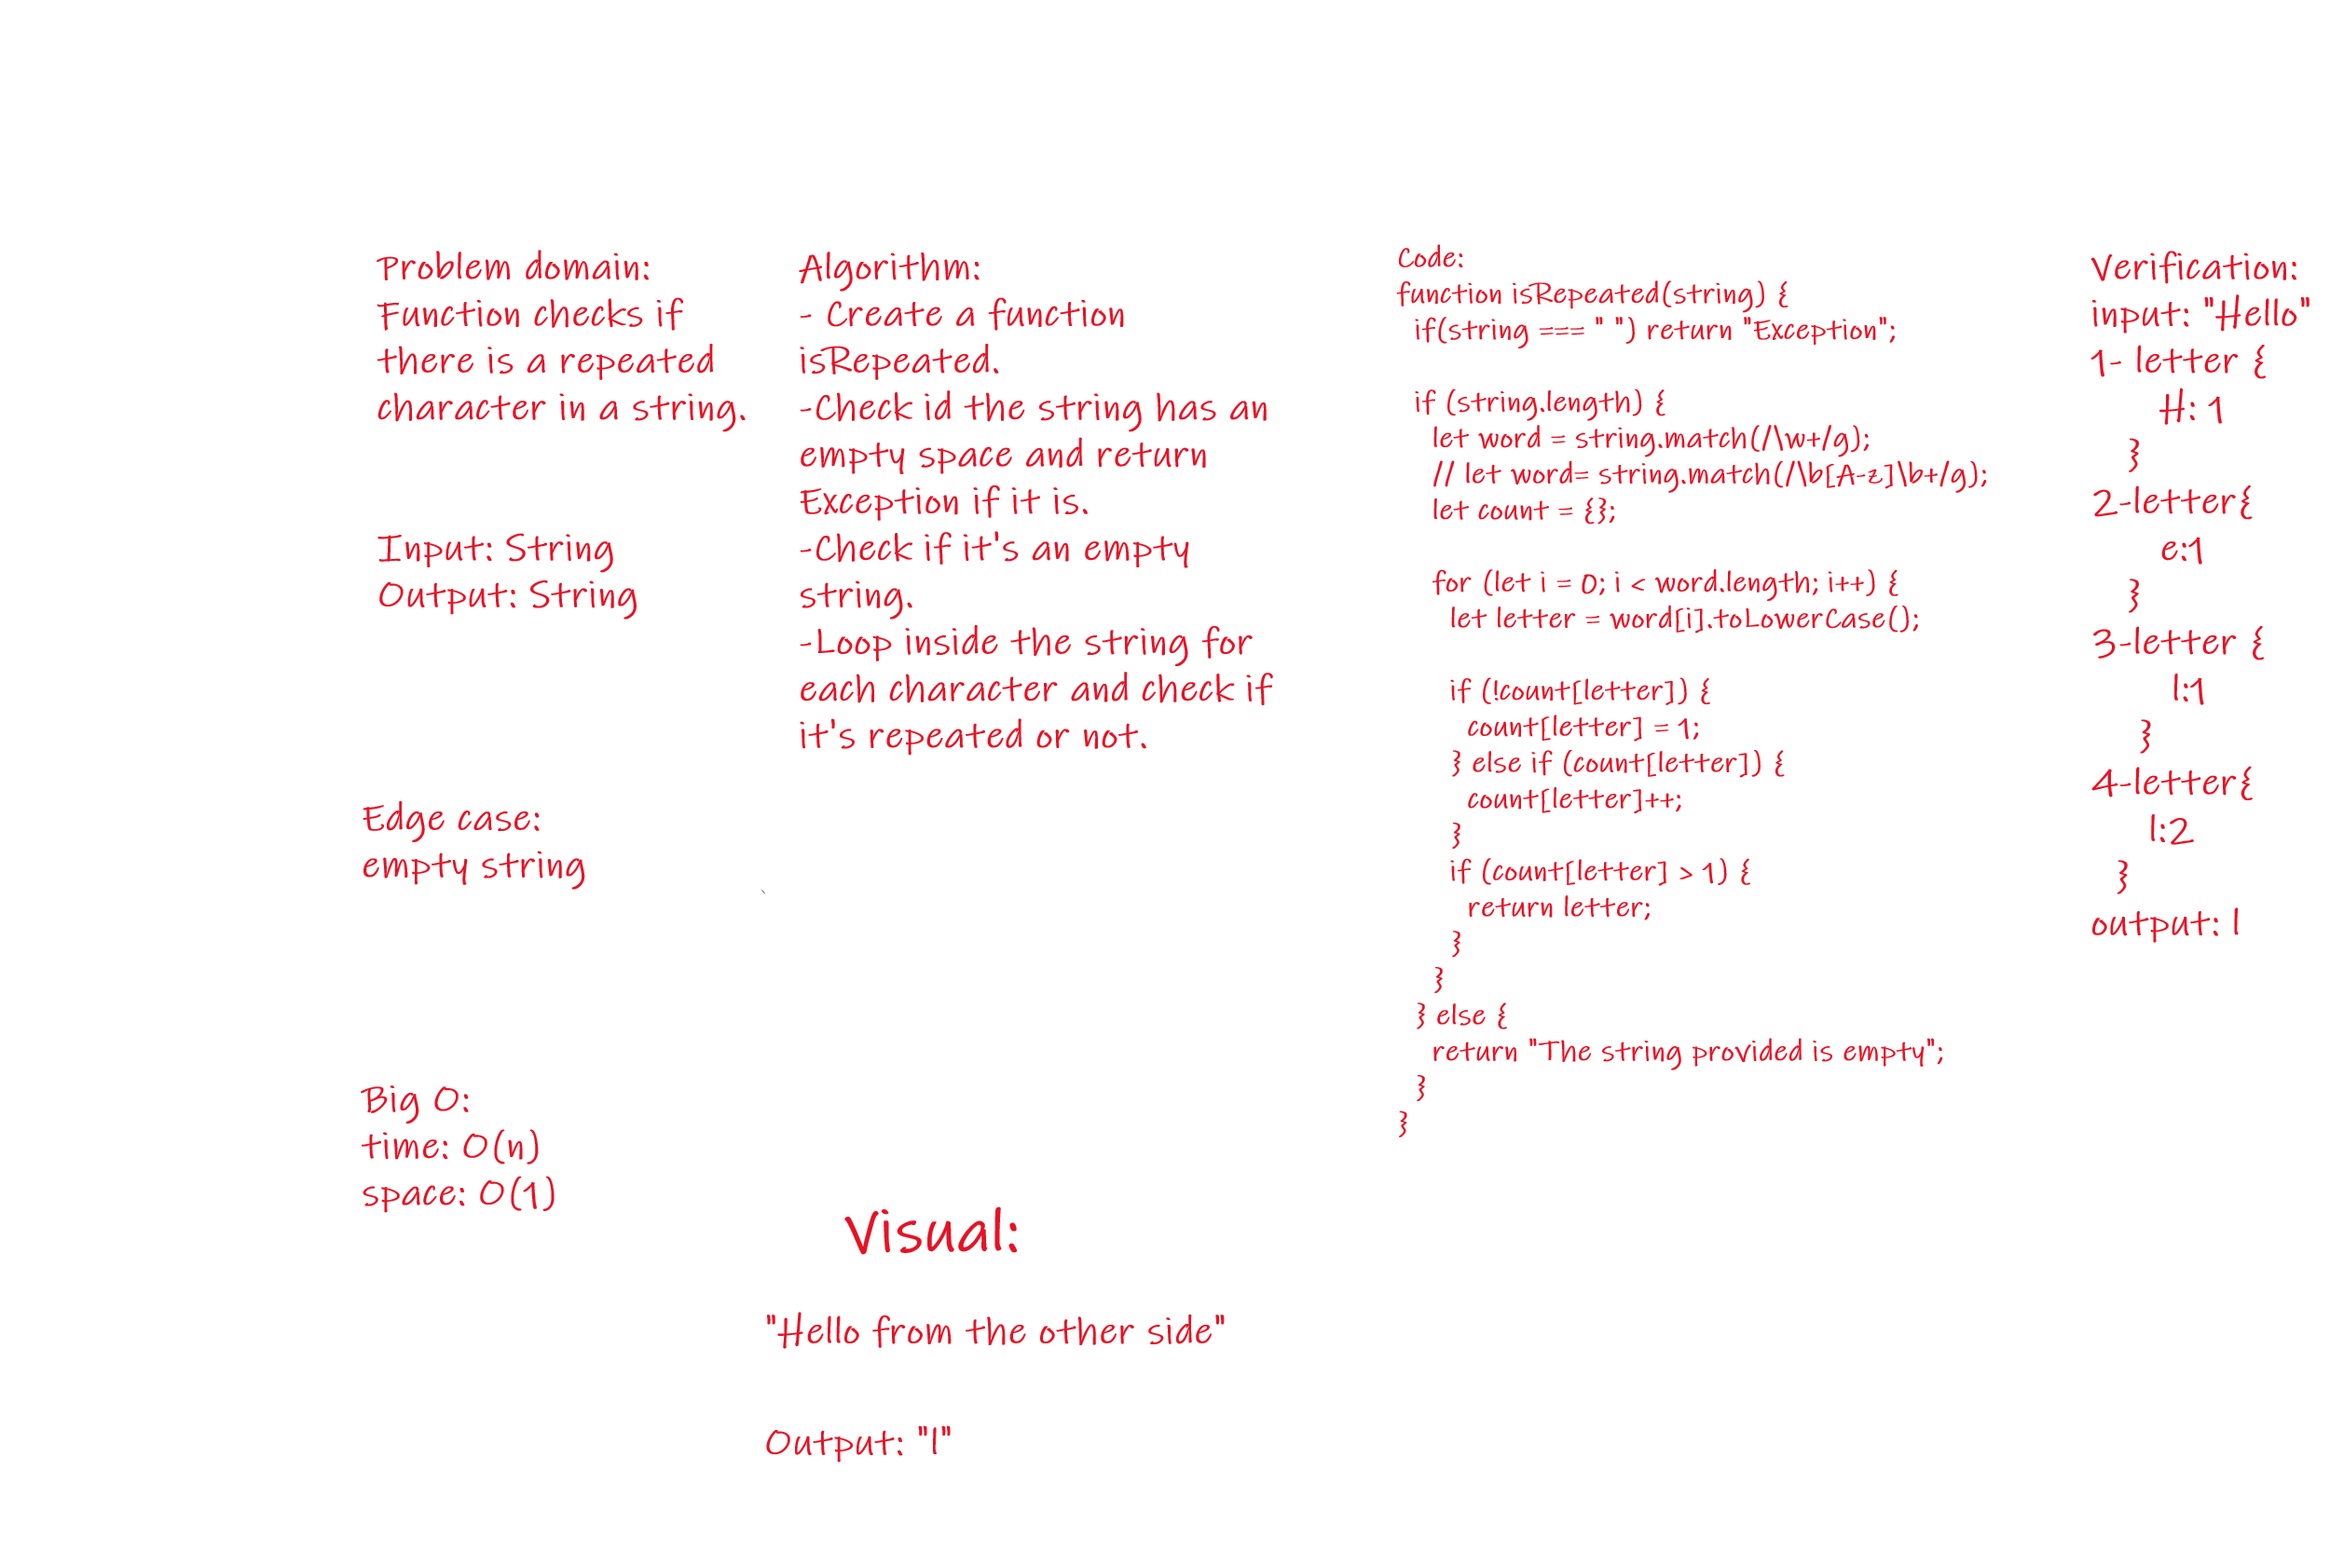
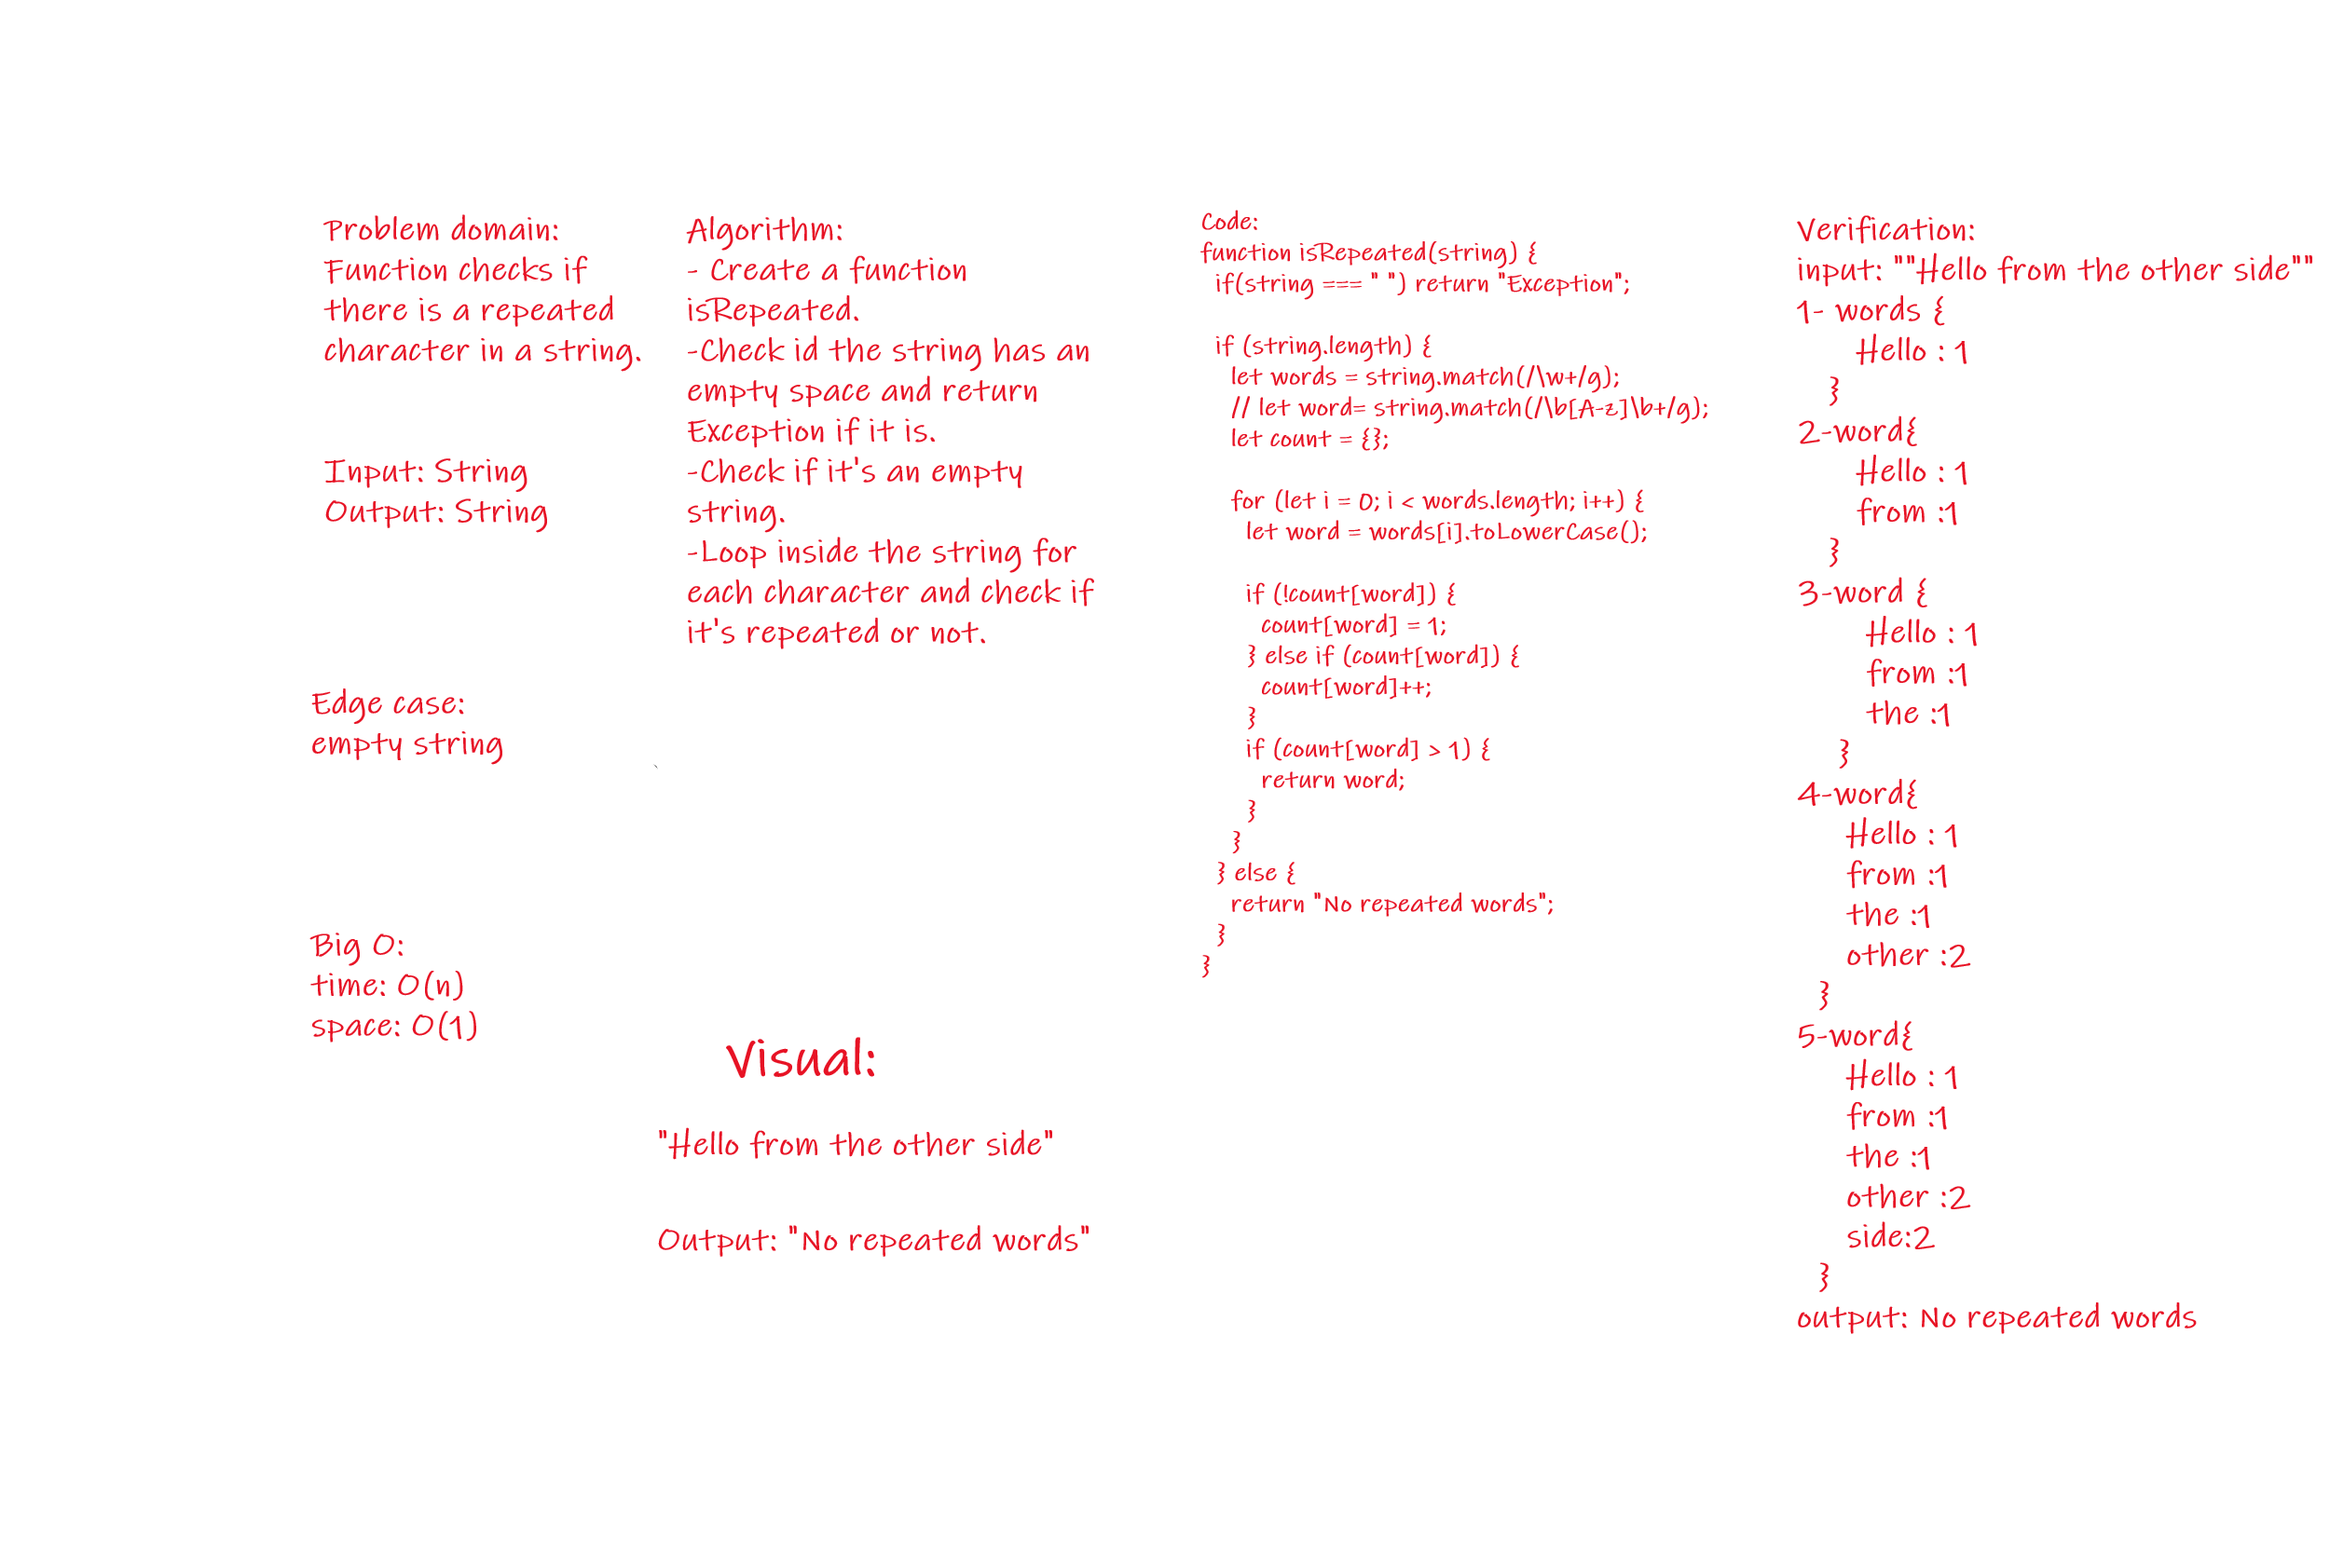
Fix

diff --git a/javascript/code-challenges/repeatedWord/repeated-word.js b/javascript/code-challenges/repeatedWord/repeated-word.js
@@ -21,7 +21,7 @@ function isRepeated(string) {
       }
     }
   } else {
-    return "The string provided is empty";
+    return "No repeated words";
   }
 }
 
